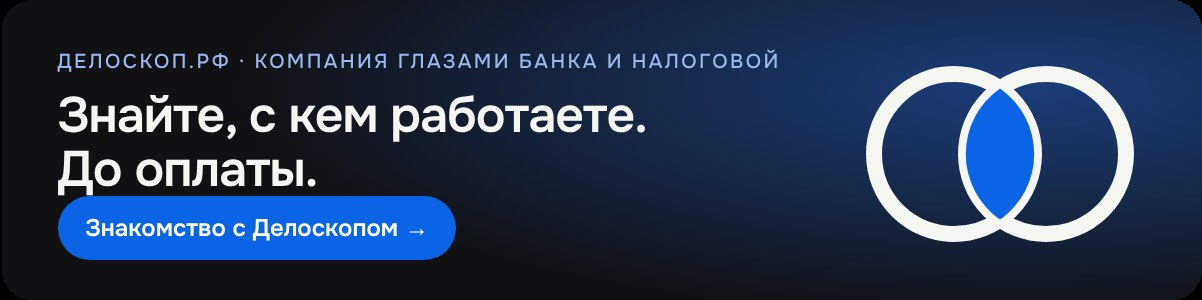
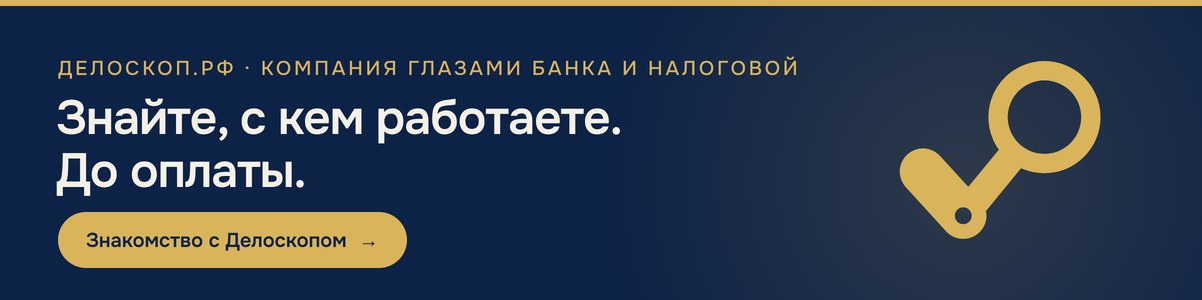
pochta-znak-v1 ([Ночные запуски] 14.11): графика фирменной подписи писем (/pochta/) — знак № 27 «лупа-галочка» и палитра бренда вместо двух колец и синего: логотип, баннеры v1 и v2, визитка, полоса продуктов, значки контактов; имена и размеры файлов прежние (подписи в почтовых программах ссылаются н

diff --git a/tests/pochta/podpis.html b/tests/pochta/podpis.html
@@ -1,0 +1,114 @@
+<!doctype html>
+<!-- pochta-znak-v1 (14.11.2026, [Ночные запуски]): графика фирменной подписи писем — /pochta/*.png|jpg.
+     Имена и размеры файлов прежние: подпись в почтовых программах ссылается на эти адреса — замена картинки обновляет все подписи сразу.
+     Знак № 27 «лупа-галочка» (контуры — как favicon.svg и шапка сайта), слово «Делоскоп» — Unbounded 700,
+     палитра бренда: тёмно-синий #0D2247, латунь #D9B45A (на бумаге и белом — #B58A32), тёплый белый #F5F1E6, синий кнопок #12305F.
+     Снимок — node tests/pochta/sdelat.js (Chromium, шрифты сайта). -->
+<html lang="ru"><head><meta charset="utf-8">
+<link rel="stylesheet" href="/css/fonts.css">
+<style>
+html,body{margin:0;background:transparent}
+body{font-family:Onest,sans-serif;-webkit-font-smoothing:antialiased;font-feature-settings:"kern";padding:20px;display:flex;flex-direction:column;align-items:flex-start;gap:20px}
+.k{position:relative;overflow:hidden;box-sizing:border-box}
+.sl{font:700 1em/1 "Unbounded",Onest,sans-serif;letter-spacing:-.015em;white-space:nowrap}
+.zn{display:block;flex:none}
+
+/* Логотип для подписи: белый фон письма */
+#logo{width:496px;height:111px;background:#fff;display:flex;align-items:center;gap:22px;padding-left:14px;color:#0D2247}
+#logo .zn{width:96px;height:96px}
+#logo .sl{font-size:52px}
+
+/* Баннер v2: тёмный, с кнопкой на «Знакомство» */
+#banner2{width:1202px;height:300px;border-radius:0;background:#0D2247;color:#F5F1E6}
+#banner2::before{content:"";position:absolute;right:-120px;top:-180px;width:720px;height:720px;border-radius:50%;background:radial-gradient(closest-side,rgba(217,180,90,.16),rgba(217,180,90,0))}
+#banner2 .ln{position:absolute;left:0;top:0;right:0;height:6px;background:#D9B45A}
+#banner2 .ey{position:absolute;left:58px;top:56px;font-size:20px;font-weight:500;letter-spacing:.14em;color:#D9B45A;text-transform:uppercase}
+#banner2 h2{position:absolute;left:56px;top:92px;margin:0;font-size:48px;line-height:1.1;font-weight:600;letter-spacing:-.02em}
+#banner2 .bt{position:absolute;left:58px;top:212px;height:56px;padding:0 28px;border-radius:999px;background:#D9B45A;color:#0D2247;font-size:20px;font-weight:600;display:flex;align-items:center;gap:12px}
+#banner2 .zn{position:absolute;right:86px;top:34px;width:232px;height:232px}
+
+/* Баннер v1: светлый, бумага */
+#banner1{width:1200px;height:280px;background:#F5F1E6;color:#0D2247;border-top:6px solid #B58A32}
+#banner1 .ey{position:absolute;left:64px;top:46px;font-size:20px;font-weight:600;letter-spacing:.06em;color:#8A6A22;text-transform:uppercase}
+#banner1 h2{position:absolute;left:62px;top:86px;margin:0;font-size:50px;line-height:1.1;font-weight:600;letter-spacing:-.02em}
+#banner1 p{position:absolute;left:64px;top:156px;margin:0;font-size:24px;line-height:1.35;color:#3A4868}
+#banner1 .ad{position:absolute;left:64px;top:222px;font-size:24px;font-weight:600;color:#12305F}
+#banner1 .zn{position:absolute;right:96px;top:36px;width:196px;height:196px}
+
+/* Полоса продуктов */
+#eko{width:1200px;height:116px;display:flex;gap:16px;background:transparent;padding:2px}
+#eko .c{flex:1 1 0;min-width:0;border-radius:28px;background:#F5F1E6;border:1.5px solid #E3DDCD;display:flex;align-items:center;gap:14px;padding:0 16px;color:#0D2247}
+#eko .c:last-child{flex-grow:1.25}
+#eko .i svg.z{width:36px;height:36px}
+#eko .i{width:52px;height:52px;border-radius:16px;background:#0D2247;display:flex;align-items:center;justify-content:center;flex:none}
+#eko .i svg{width:30px;height:30px}
+#eko b{display:block;white-space:nowrap;font-size:24px;font-weight:600;letter-spacing:-.01em}
+#eko span{display:block;font-size:17px;line-height:1.3;color:#5B6783}
+
+/* Визитка-картинка для письма */
+#vizitka{width:1050px;height:600px;background:#0D2247;color:#F5F1E6}
+#vizitka .ln{position:absolute;left:0;top:0;right:0;height:10px;background:#D9B45A}
+#vizitka .zn{position:absolute;left:70px;top:118px;width:224px;height:224px}
+#vizitka .sl{position:absolute;left:318px;top:170px;font-size:88px}
+#vizitka .pd{position:absolute;left:322px;top:286px;font-size:32px;color:#A7B2CB}
+#vizitka hr{position:absolute;left:72px;right:72px;top:418px;margin:0;border:0;height:1.5px;background:rgba(217,180,90,.45)}
+#vizitka .kto{position:absolute;left:72px;top:450px;font-size:32px;font-weight:600}
+#vizitka .kt{position:absolute;left:72px;top:506px;font-size:24px;color:#D9B45A;display:flex;gap:22px}
+#vizitka .kt i{font-style:normal;color:rgba(245,241,230,.45)}
+
+/* Значки контактов: тёмно-синяя плитка, рисунок — тёплый белый */
+.ic{display:flex;align-items:center;justify-content:center;background:transparent}
+.ic div{width:44px;height:44px;border-radius:10px;background:#0D2247;display:flex;align-items:center;justify-content:center}
+.ic svg{width:26px;height:26px}
+.ic .vk{font:700 15px/1 Onest,sans-serif;color:#F5F1E6;letter-spacing:.02em}
+#ic-pdf,#ic-sajt,#ic-vizitka,#ic-vk{width:50px;height:48px}
+#ic-pochta{width:48px;height:48px}
+</style></head><body>
+
+<svg width="0" height="0" style="position:absolute" aria-hidden="true"><defs>
+<!-- футляр (короткое плечо отметки) -->
+<path id="zA" d="M49.86 85.91A12 12 0 0 1 32.14 102.09L11.14 79.09A12 12 0 0 1 28.86 62.91ZM29 94a12 12 0 1 1 24 0a12 12 0 1 1 -24 0ZM36.6 94a4.4 4.4 0 1 0 8.8 0a4.4 4.4 0 1 0 -8.8 0ZM36.6 94a4.4 4.4 0 1 0 8.8 0a4.4 4.4 0 1 0 -8.8 0Z"/>
+<!-- линза на рычаге (длинное плечо) -->
+<path id="zB" d="M46.79 98.77A7.5 7.5 0 0 1 35.21 89.23L60.36 58.69A7.5 7.5 0 0 1 71.94 68.22ZM54 43a29 29 0 1 1 58 0a29 29 0 1 1 -58 0ZM64 43a19 19 0 1 0 38 0a19 19 0 1 0 -38 0ZM36.6 94a4.4 4.4 0 1 0 8.8 0a4.4 4.4 0 1 0 -8.8 0Z"/>
+</defs></svg>
+
+<div class="k" id="logo"><svg class="zn" viewBox="0 0 120 120"><use href="#zA" fill="#0D2247"/><use href="#zB" fill="#B58A32"/></svg><span class="sl">Делоскоп</span></div>
+
+<div class="k" id="banner2"><i class="ln"></i>
+<div class="ey">Делоскоп.рф · компания глазами банка и налоговой</div>
+<h2>Знайте, с&nbsp;кем работаете.<br>До&nbsp;оплаты.</h2>
+<div class="bt">Знакомство с&nbsp;Делоскопом <span>→</span></div>
+<svg class="zn" viewBox="0 0 120 120"><use href="#zA" fill="#D9B45A"/><use href="#zB" fill="#D9B45A"/></svg>
+</div>
+
+<div class="k" id="banner1">
+<div class="ey">Компания глазами банка и налоговой</div>
+<h2>Проверьте контрагента по&nbsp;ИНН</h2>
+<p>Статус, долги, отчётность и&nbsp;Индекс 1–99&nbsp;—<br>с&nbsp;источником и&nbsp;датой у&nbsp;каждого факта</p>
+<div class="ad">deloskop.ru</div>
+<svg class="zn" viewBox="0 0 120 120"><use href="#zA" fill="#0D2247"/><use href="#zB" fill="#B58A32"/></svg>
+</div>
+
+<div class="k" id="eko">
+<div class="c"><div class="i"><svg class="z" viewBox="0 0 120 120"><use href="#zA" fill="#D9B45A"/><use href="#zB" fill="#D9B45A"/></svg></div><div><b>Делоскоп</b><span>проверка<br>и&nbsp;Индекс</span></div></div>
+<div class="c"><div class="i"><svg viewBox="0 0 24 24" fill="none" stroke="#F5F1E6" stroke-width="1.9" stroke-linecap="round" stroke-linejoin="round"><path d="M4 20h4L19 9a2.1 2.1 0 0 0-4-4L4 16z"/><path d="M13.5 6.5l4 4"/><path d="M12 20h8"/></svg></div><div><b>Делопись</b><span>договоры<br>и&nbsp;знания</span></div></div>
+<div class="c"><div class="i"><svg viewBox="0 0 24 24" fill="none" stroke="#F5F1E6" stroke-width="1.9" stroke-linecap="round" stroke-linejoin="round"><rect x="5" y="3" width="14" height="18" rx="2.5"/><path d="M8.5 7.5h7M8.5 12h1.5M12 12h1.5M8.5 15.5h1.5M12 15.5h1.5"/><path d="M15.5 12v3.5"/></svg></div><div><b>Делобух</b><span>бухгалтерия</span></div></div>
+<div class="c"><div class="i"><svg viewBox="0 0 24 24" fill="none" stroke="#F5F1E6" stroke-width="1.9" stroke-linecap="round" stroke-linejoin="round"><path d="M12 6.5C10 5 7 4.5 3.5 5v13.5C7 18 10 18.5 12 20c2-1.5 5-2 8.5-1.5V5C17 4.5 14 5 12 6.5z"/><path d="M12 6.5V20"/></svg></div><div><b>Делоскоп · Неделя</b><span>журнал недели</span></div></div>
+</div>
+
+<div class="k" id="vizitka"><i class="ln"></i>
+<svg class="zn" viewBox="0 0 120 120"><use href="#zA" fill="#D9B45A"/><use href="#zB" fill="#D9B45A"/></svg>
+<span class="sl">Делоскоп</span>
+<div class="pd">Компания глазами банка и&nbsp;налоговой</div>
+<hr>
+<div class="kto">Команда Делоскопа</div>
+<div class="kt">help@deloskop.ru <i>·</i> deloskop.ru <i>·</i> vk.com/deloskop_ru</div>
+</div>
+
+<div class="k ic" id="ic-pdf"><div><svg viewBox="0 0 24 24" fill="none" stroke="#F5F1E6" stroke-width="2" stroke-linecap="round" stroke-linejoin="round"><path d="M14 3H7a2 2 0 0 0-2 2v14a2 2 0 0 0 2 2h10a2 2 0 0 0 2-2V8z"/><path d="M14 3v5h5"/><path d="M9 13h6M9 17h4"/></svg></div></div>
+<div class="k ic" id="ic-pochta"><div><svg viewBox="0 0 24 24" fill="none" stroke="#F5F1E6" stroke-width="2" stroke-linecap="round" stroke-linejoin="round"><rect x="3" y="5.5" width="18" height="13" rx="2.5"/><path d="M4 7.5l8 5.5 8-5.5"/></svg></div></div>
+<div class="k ic" id="ic-sajt"><div><svg viewBox="0 0 24 24" fill="none" stroke="#F5F1E6" stroke-width="2" stroke-linecap="round" stroke-linejoin="round"><circle cx="12" cy="12" r="8.5"/><path d="M3.5 12h17"/><path d="M12 3.5c2.6 2.4 3.8 5.2 3.8 8.5s-1.2 6.1-3.8 8.5c-2.6-2.4-3.8-5.2-3.8-8.5s1.2-6.1 3.8-8.5z"/></svg></div></div>
+<div class="k ic" id="ic-vizitka"><div><svg viewBox="0 0 24 24" fill="none" stroke="#F5F1E6" stroke-width="2" stroke-linecap="round" stroke-linejoin="round"><rect x="3" y="5.5" width="18" height="13" rx="2.5"/><circle cx="8.5" cy="11" r="2"/><path d="M5.8 15.5c.6-1.4 1.6-2 2.7-2s2.1.6 2.7 2"/><path d="M14 10h4M14 13.5h3"/></svg></div></div>
+<div class="k ic" id="ic-vk"><div><span class="vk">ВК</span></div></div>
+
+</body></html>

diff --git a/tests/pochta_znak.test.js b/tests/pochta_znak.test.js
@@ -1,0 +1,60 @@
+// pochta-znak-v1 (14.11.2026): графика фирменной подписи писем (/pochta/) — знак № 27 «лупа-галочка» и палитра бренда.
+// Сторожа: имена и размеры файлов прежние (подписи в почтовых программах ссылаются на эти адреса); знак — тот же, что в
+// шапке сайта; цвета — тёмно-синий, латунь, тёплый белый; прежнего синего нет; картинки лёгкие; прозрачные — с альфой.
+'use strict';
+const test = require('node:test');
+const assert = require('node:assert');
+const fs = require('fs');
+const path = require('path');
+
+const KOREN = path.join(__dirname, '..');
+const chitat = (p) => fs.readFileSync(path.join(KOREN, p), 'utf8');
+
+// [файл, ширина, высота, альфа, предел в байтах]
+const NABOR = [
+  ['podpis-logo.png', 496, 111, false, 20000],
+  ['podpis-banner-v2.jpg', 1202, 300, false, 60000],
+  ['podpis-banner.png', 1200, 280, false, 60000],
+  ['podpis-ekosistema.png', 1200, 116, true, 30000],
+  ['vizitka.png', 1050, 600, false, 60000],
+  ['podpis-ic-pdf.png', 50, 48, true, 4000],
+  ['podpis-ic-pochta.png', 48, 48, true, 4000],
+  ['podpis-ic-sajt.png', 50, 48, true, 4000],
+  ['podpis-ic-vizitka.png', 50, 48, true, 4000],
+  ['podpis-ic-vk.png', 50, 48, true, 4000],
+];
+
+function razmer(buf) {
+  if (buf.readUInt32BE(0) === 0x89504e47) return { w: buf.readUInt32BE(16), h: buf.readUInt32BE(20), alfa: buf[25] === 6 || buf[25] === 4 || (buf[25] === 3 && buf.includes('tRNS')) };
+  for (let i = 2; i < buf.length - 9;) { // JPEG: ищем SOF0/SOF2
+    if (buf[i] !== 0xff) { i++; continue; }
+    const m = buf[i + 1];
+    if (m === 0xc0 || m === 0xc2) return { w: buf.readUInt16BE(i + 7), h: buf.readUInt16BE(i + 5), alfa: false };
+    i += 2 + buf.readUInt16BE(i + 2);
+  }
+  return null;
+}
+
+test('графика подписи: прежние имена и размеры, лёгкие файлы, прозрачность где была', () => {
+  for (const [f, w, h, alfa, predel] of NABOR) {
+    const buf = fs.readFileSync(path.join(KOREN, 'pochta', f));
+    const r = razmer(buf);
+    assert.ok(r, f + ': читается');
+    assert.deepStrictEqual([r.w, r.h], [w, h], f + ': размер прежний');
+    assert.strictEqual(r.alfa, alfa, f + (alfa ? ': прозрачный фон' : ': без альфы'));
+    assert.ok(buf.length <= predel, f + ': ' + buf.length + ' Б ≤ ' + predel);
+  }
+});
+
+test('исходник графики: знак из шапки сайта, палитра бренда, прежнего синего и колец нет', () => {
+  const src = chitat('tests/pochta/podpis.html');
+  const putiFavicon = new Set([...chitat('favicon.svg').matchAll(/ d="([^"]+)"/g)][0][1].split(/(?=M)/));
+  const putiZnaka = new Set([...src.matchAll(/<path id="z[AB]" d="([^"]+)"/g)].flatMap((m) => m[1].split(/(?=M)/)));
+  assert.deepStrictEqual([...putiZnaka].sort(), [...putiFavicon].sort(), 'контуры знака — те же, что в значке сайта');
+  for (const c of ['#0D2247', '#D9B45A', '#B58A32', '#F5F1E6']) assert.ok(src.includes(c), 'цвет бренда: ' + c);
+  assert.doesNotMatch(src, /#(0B63E5|2F80ED|0A84FF|3B82F6|1E6FFF|5AA0FF)\b/i, 'прежнего синего нет');
+  assert.ok(src.includes('"Unbounded"') && (src.match(/class="sl">Делоскоп</g) || []).length === 2, 'слово «Делоскоп» — Unbounded, в логотипе и визитке');
+  assert.doesNotMatch(src, /Делоскоп\.рф<\/span>/, 'в слове-логотипе нет «.рф» (в шрифте знака только буквы названия)');
+  const sd = chitat('tests/pochta/sdelat.js');
+  for (const [f] of NABOR) assert.ok(sd.includes("'" + f + "'"), 'сборщик пишет ' + f);
+});

diff --git a/tests/pochta/sdelat.js b/tests/pochta/sdelat.js
@@ -1,0 +1,41 @@
+// pochta-znak-v1 (14.11.2026): снимок графики фирменной подписи писем из tests/pochta/podpis.html.
+// Запуск из корня сайта: python3 -m http.server 8001, затем node tests/pochta/sdelat.js
+// Пишет /pochta/*: имена и размеры прежние (подписи в почтовых программах ссылаются на эти адреса).
+// Снимок в два раза крупнее → уменьшение до точного размера (резче мелкий текст). PNG — палитрой (лёгкие), прозрачные — палитра с альфой.
+'use strict';
+const { chromium } = require(process.env.PLAYWRIGHT || 'playwright');
+const { execFileSync } = require('child_process');
+const OSNOVA = process.argv[2] || 'http://127.0.0.1:8001';
+// id → [файл, ширина, высота, прозрачный]
+const NABOR = [
+  ['logo', 'podpis-logo.png', 496, 111, false],
+  ['banner2', 'podpis-banner-v2.jpg', 1202, 300, false],
+  ['banner1', 'podpis-banner.png', 1200, 280, false],
+  ['eko', 'podpis-ekosistema.png', 1200, 116, true],
+  ['vizitka', 'vizitka.png', 1050, 600, false],
+  ['ic-pdf', 'podpis-ic-pdf.png', 50, 48, true],
+  ['ic-pochta', 'podpis-ic-pochta.png', 48, 48, true],
+  ['ic-sajt', 'podpis-ic-sajt.png', 50, 48, true],
+  ['ic-vizitka', 'podpis-ic-vizitka.png', 50, 48, true],
+  ['ic-vk', 'podpis-ic-vk.png', 50, 48, true],
+];
+const UMENSHIT = [
+  'import sys', 'from PIL import Image',
+  'src, dst, w, h, alfa = sys.argv[1], sys.argv[2], int(sys.argv[3]), int(sys.argv[4]), sys.argv[5] == "1"',
+  'im = Image.open(src).convert("RGBA" if alfa else "RGB").resize((w, h), Image.LANCZOS)',
+  'if dst.endswith(".jpg"): im.save(dst, quality=88, optimize=True, progressive=True)',
+  'elif alfa: im.quantize(colors=128, method=Image.Quantize.FASTOCTREE, dither=Image.Dither.NONE).save(dst, optimize=True)',
+  'else: im.quantize(colors=256, method=Image.Quantize.MEDIANCUT, dither=Image.Dither.NONE).save(dst, optimize=True)',
+].join('\n');
+(async () => {
+  const b = await chromium.launch(process.env.CHROMIUM ? { executablePath: process.env.CHROMIUM } : {});
+  const pg = await b.newPage({ viewport: { width: 1300, height: 900 }, deviceScaleFactor: 2 });
+  await pg.goto(OSNOVA + '/tests/pochta/podpis.html', { waitUntil: 'load' });
+  await pg.evaluate(() => document.fonts.ready);
+  for (const [id, fajl, w, h, alfa] of NABOR) {
+    const png = '/tmp/pochta-' + id + '.png';
+    await pg.locator('#' + id).screenshot({ path: png, omitBackground: alfa });
+    execFileSync('python3', ['-c', UMENSHIT, png, 'pochta/' + fajl, String(w), String(h), alfa ? '1' : '0']);
+  }
+  await b.close();
+})();
